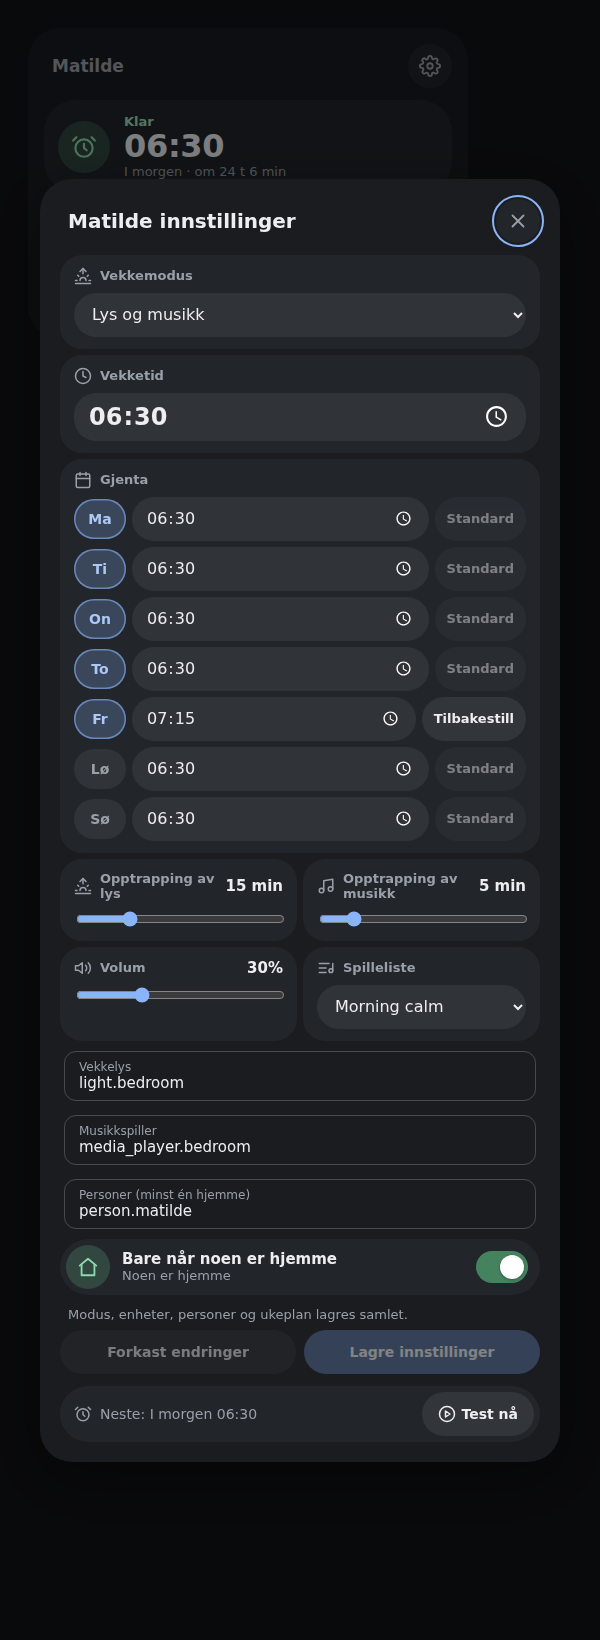
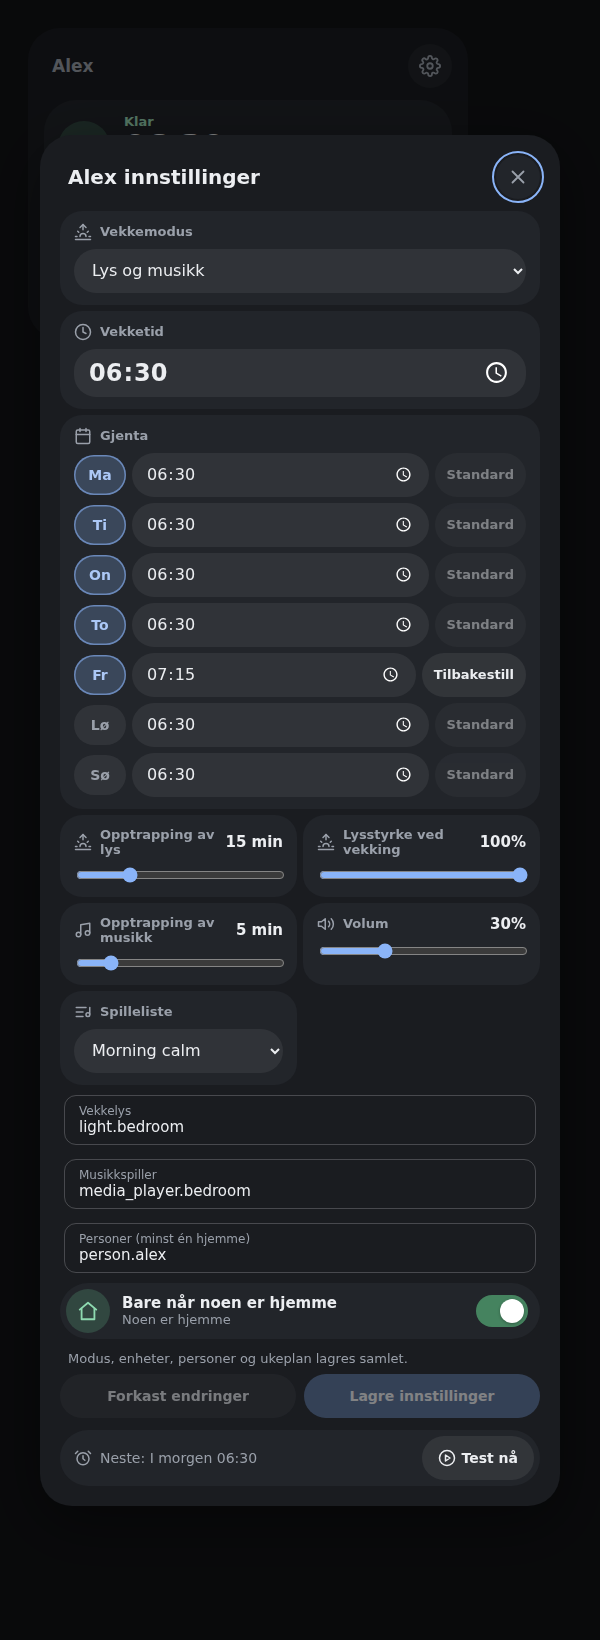
docs: use dummy names in examples, tests and previews

Changed region(s): [[0.09, 0.0311, 0.9, 0.9329], [0.51, 0.2177, 0.9, 0.622], [0.81, 0.0933, 0.9, 0.1555]]

diff --git a/README.md b/README.md
@@ -98,8 +98,8 @@ Add this repository as a custom repository (category *Dashboard*) and install
 
 ```yaml
 type: custom:lovelace-personal-wakeup-card
-entity: sensor.matilde_wakeup
-name: Matilde           # optional, defaults to the entity's friendly name
+entity: sensor.alex_wakeup
+name: Alex           # optional, defaults to the entity's friendly name
 snooze_presets: [5, 10, 15]   # optional, minutes; the entity's default snooze is always included
 ```
 
